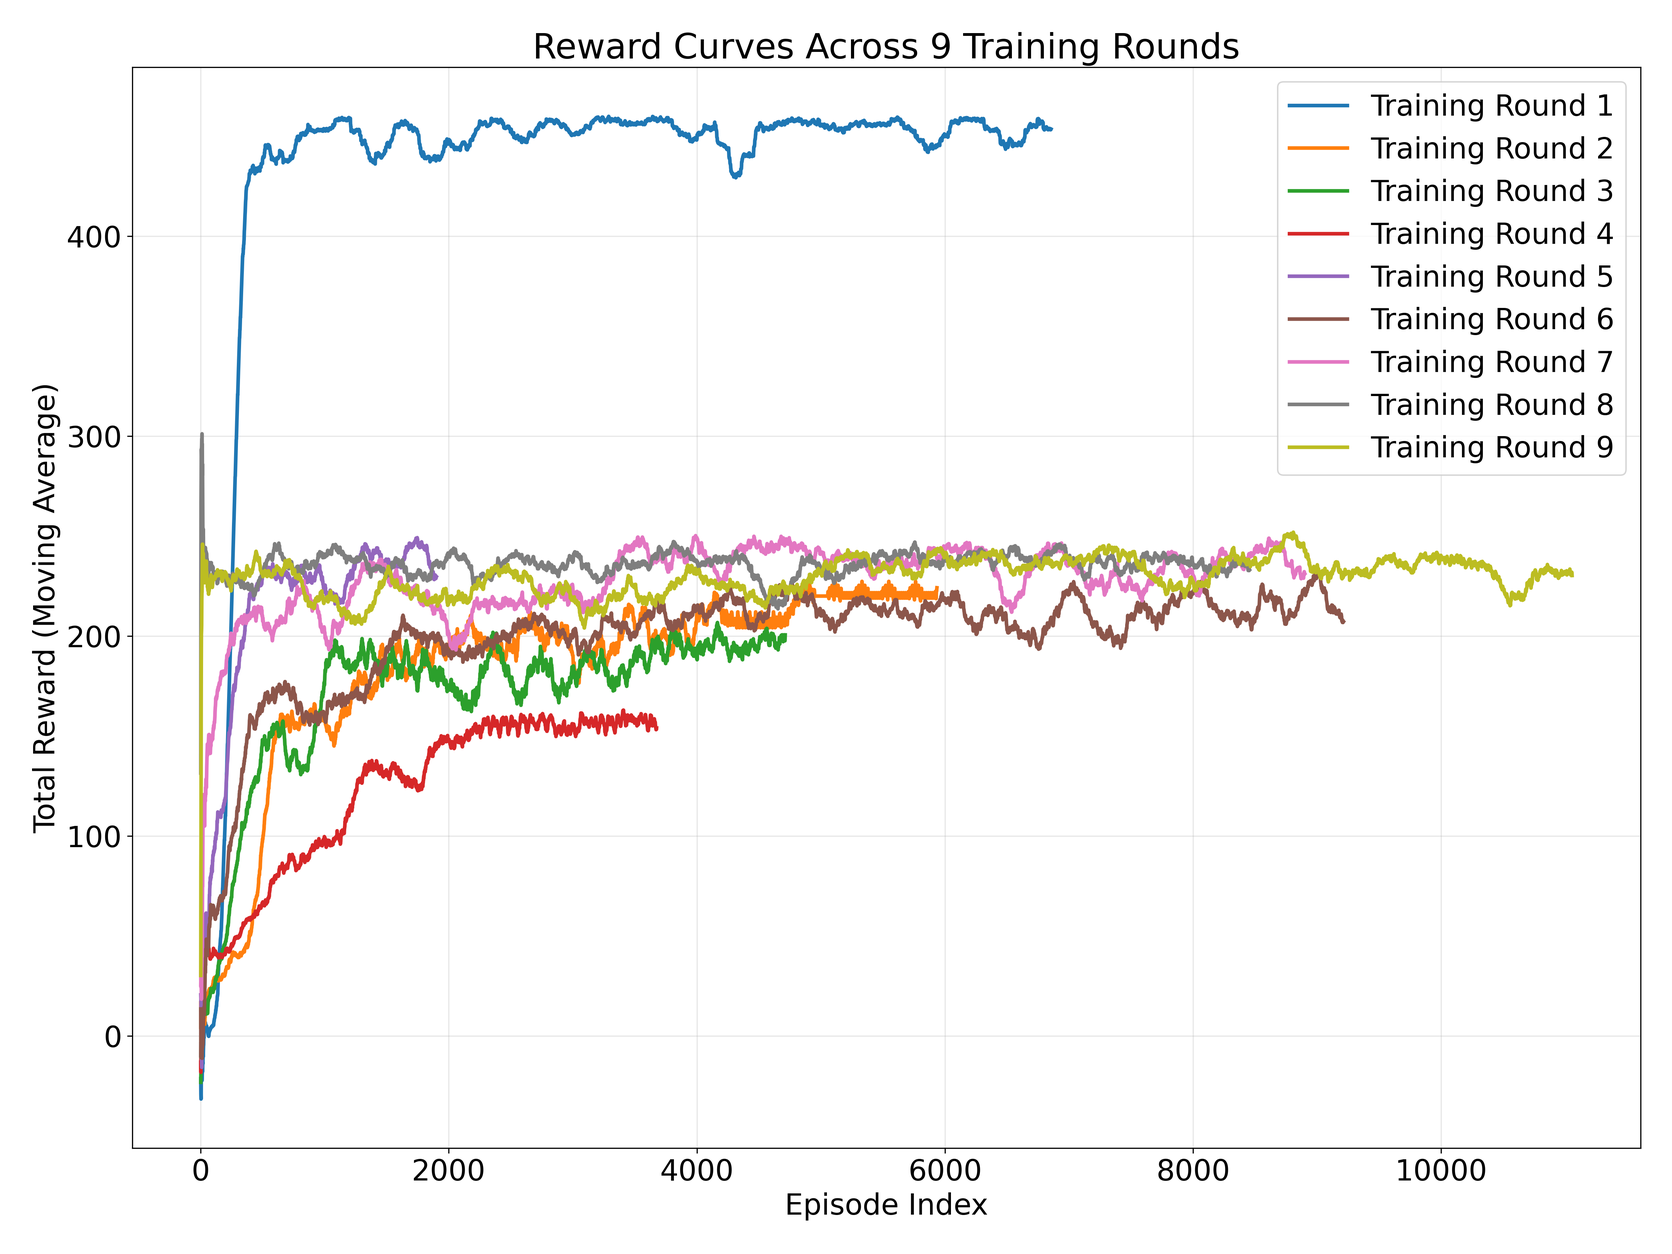
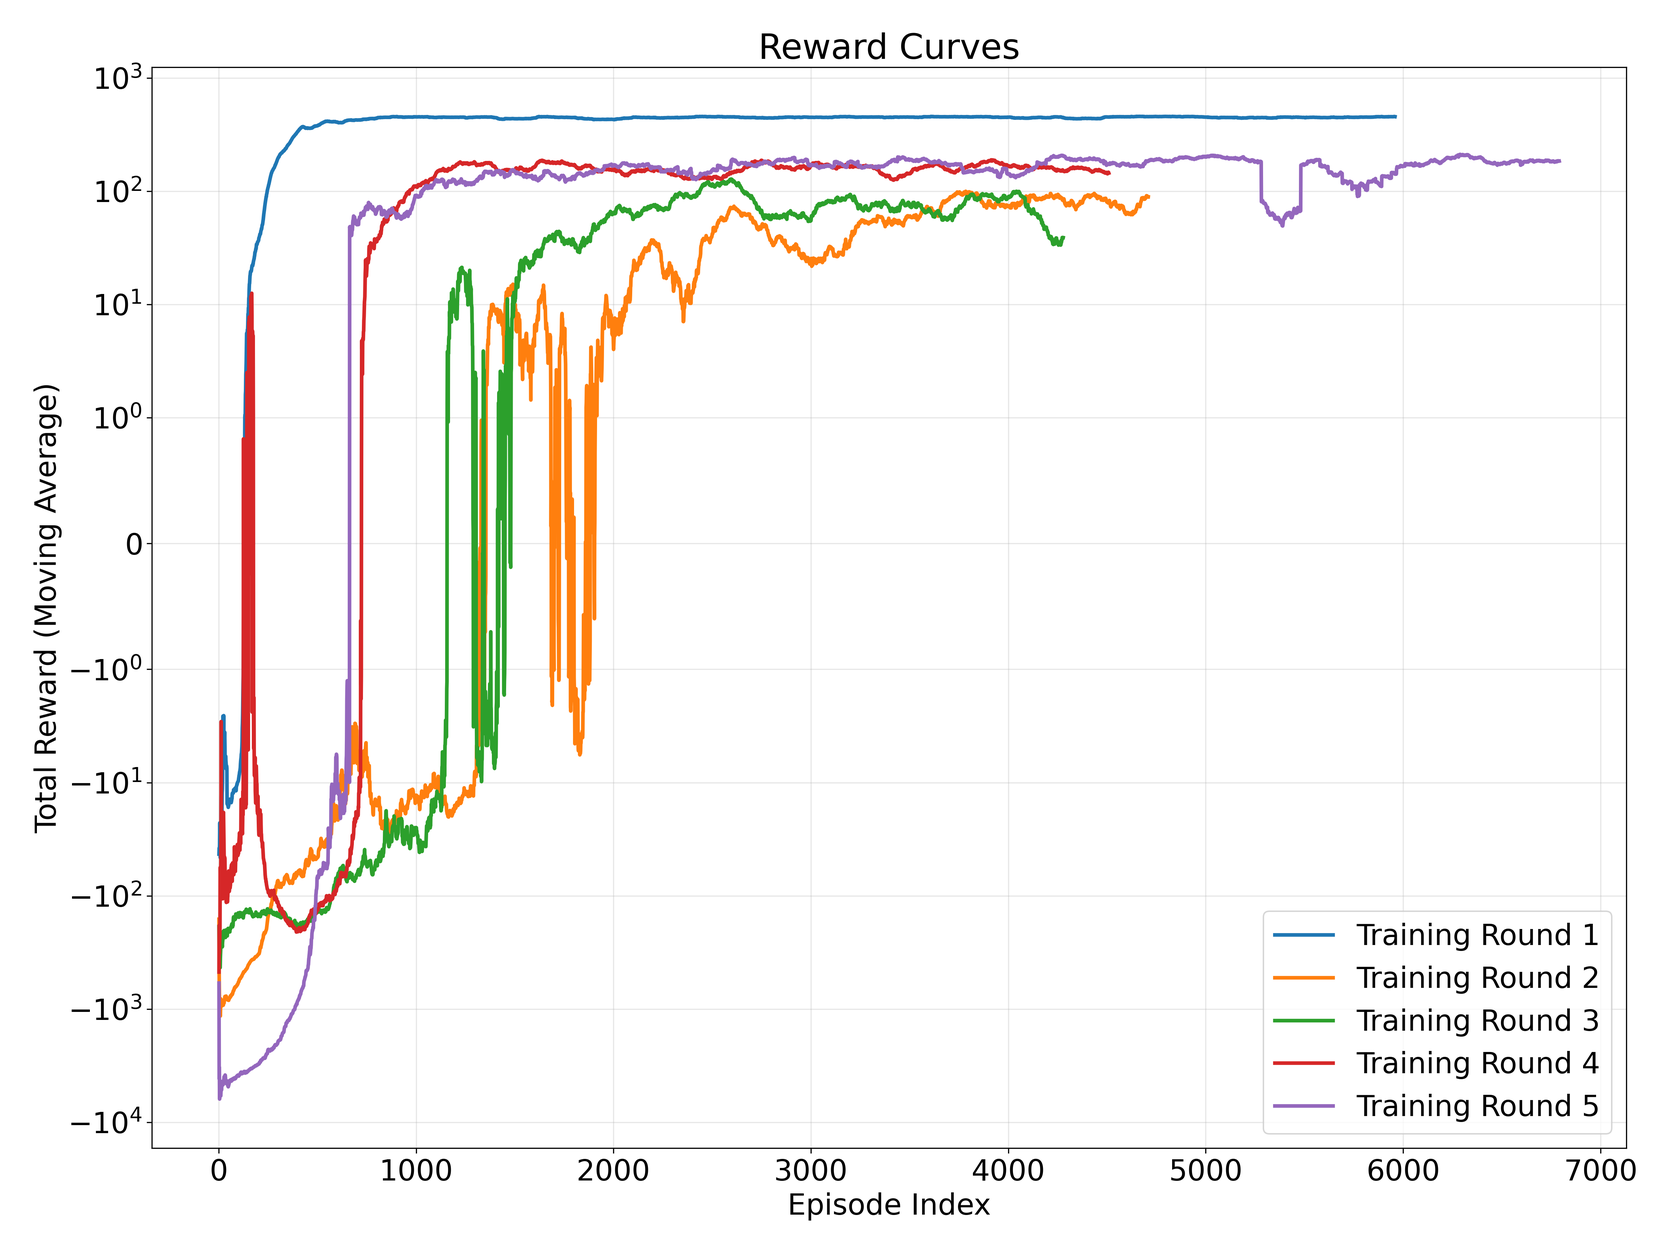
change paper

diff --git a/paper/main.tex b/paper/main.tex
@@ -242,12 +242,12 @@
 %%   is part of the metadata in the pdf/a file, and the metadata cannot contain
 %%   linebreaks.
 %%
-\thesistitle{Hierarchical Reinforcement Learning with Finite State Machines for Multi-Robot Collaborative Manipulation}
+\thesistitle{Learning-Based Multi-Robot Collaboration for Intelligent and Adaptive Robotic Systems}
 %\thesistitle[Title of the thesis]{Title of\\ the thesis}
 %%
 %% Either remove or leave \thesissubtitle{} empty if you don't use it
 %%
-\thesissubtitle{A possible subtitle}
+% \thesissubtitle{A possible subtitle}
 %\thesissubtitle[Subtitle of the thesis]{Subtitle of\\ the thesis}
 %\thesissubtitle{}
 
@@ -387,9 +387,7 @@ Stochastic Learning and Adaptive Control}
 %% abstract rewrite it in the abstarct environment as described below.
 %%
 \thesisabstract{%
-  1 - In a Multi-Robot collaborative scenario, adding a new robot brings additional development work.
-  2 - This work proposed a new algorithm that includes observing and learning the working pattern of the main robot and accelerating task completion with more robots manipulated by reinforcement learning models.
-  3 -  
+The increasing complexity of modern industrial environments demands robotic systems that are not only efficient but also intelligent, adaptive, and capable of collaboration. Traditional approaches in robotics, including single-agent reinforcement learning (RL) and simplified multi-agent frameworks, often struggle to operate effectively in continuous, high-dimensional, and dynamic scenarios, particularly when integrated mobility and dexterous manipulation are required. This thesis addresses these challenges by developing learning-based strategies for multi-robot collaboration in adaptive robotic systems. Specifically, two case studies are conducted within the framework of the academic project ``Conscious Agents as a Foundation for a Collaborative Factory of the Future.'' The first study introduces an observation algorithm that captures the behavior of an autonomous robot performing pick-and-place tasks and integrates this information with reinforcement learning for end-to-end motor control and decision-making. The second study investigates decentralized multi-agent collaboration between two RL-controlled robots, demonstrating the emergence of coordinated behaviors under shared objectives. Experiments in simulated continuous-control environments show that the proposed methods enable scalable, adaptive, and robust multi-robot cooperation, highlighting their potential for practical industrial applications. The results contribute to advancing intelligent, socially aware, and collaborative robotic systems, paving the way for flexible automation in future manufacturing and service domains.
 }
 
 %% You can prevent LaTeX from writing into the xmpdata file (it contains all the 
@@ -427,9 +425,7 @@ Stochastic Learning and Adaptive Control}
 %% well.
 %%
 \begin{abstractpage}[english]
-  1 - In a Multi-Robot collaborative scenario, adding a new robot brings additional development work.
-  2 - This work proposed a new algorithm that includes observing and learning the working pattern of the main robot and accelerating task completion with more robots manipulated by reinforcement learning models.
-  3 -  
+The increasing complexity of modern industrial environments demands robotic systems that are not only efficient but also intelligent, adaptive, and capable of collaboration. Traditional approaches in robotics, including single-agent reinforcement learning (RL) and simplified multi-agent frameworks, often struggle to operate effectively in continuous, high-dimensional, and dynamic scenarios, particularly when integrated mobility and dexterous manipulation are required. This thesis addresses these challenges by developing learning-based strategies for multi-robot collaboration in adaptive robotic systems. Specifically, two case studies are conducted within the framework of the academic project ``Conscious Agents as a Foundation for a Collaborative Factory of the Future.'' The first study introduces an observation algorithm that captures the behavior of an autonomous robot performing pick-and-place tasks and integrates this information with reinforcement learning for end-to-end motor control and decision-making. The second study investigates decentralized multi-agent collaboration between two RL-controlled robots, demonstrating the emergence of coordinated behaviors under shared objectives. Experiments in simulated continuous-control environments show that the proposed methods enable scalable, adaptive, and robust multi-robot cooperation, highlighting their potential for practical industrial applications. The results contribute to advancing intelligent, socially aware, and collaborative robotic systems, paving the way for flexible automation in future manufacturing and service domains.
 \end{abstractpage}
 
 %% The text in the \thesisabstract macro is stored in the macro \abstractext, so
@@ -591,8 +587,7 @@ Otaniemi, 10 October 2025\\
 %% 
 \thispagestyle{empty}
 
-The evolution from Industry 4.0 to Industry 5.0 reflects a shift from pure automation and digitalization toward human-centric, sustainable, and resilient production. While Industry 4.0 focused on interconnected machines and data-driven efficiency, Industry 5.0 highlights the integration of human creativity with intelligent, collaborative robotic systems. The transition toward Industry 5.0 emphasizes not only efficiency but also intelligence and collaboration in robotic systems. Robots are expected to work alongside both humans and other robots, performing fundamental tasks such as pick-and-place while adapting to dynamic factory environments. Simulation platforms for example MuJoCo [1] and reinforcement learning (RL) frameworks such as Stable-Baselines3 [2] have enabled rapid experimentation with low-level motor control and high-level decision-making in robotics. However, many existing approaches remain constrained to two categories: deterministic, rule-based controllers, which execute predefined instructions with high efficiency but lack adaptability in dynamic or unforeseen environments; and isolated reinforcement learning (RL) agents, which can acquire behaviors through interaction and experience, yet often operate in isolation without mechanisms for coordination or collaboration. Such approaches struggle with adaptability in unstructured environments and overlook the importance of multi-agent collaboration. Moreover, mechanisms for observing and interpreting the behaviors of rule-based robots—those operating under fixed, deterministic control—in order to support learning-based agents are still underexplored. These gaps hinder progress toward intelligent, collaborative robotic systems envisioned in Industry 5.0 [3].
-This thesis tackles these challenges by conducting two case studies within the framework of the academic project “Conscious Agents as a Foundation for a Collaborative Factory of the Future.” The first develops an observation algorithm to capture the behavior of a rule-based robot performing pick-and-place tasks, and integrates this with RL-based motor control and decision-making for a robot governed entirely by reinforcement learning. The second case study explores multi-agent collaboration between two RL-controlled robots, aiming to demonstrate how robots can cooperate with each other—and eventually with humans—under a unified control framework. Together, these studies contribute to advancing smart and collaborative robotics for Industry 5.0.The remainder of this thesis is organized as follows. Chapter 2 reviews the relevant literature on reinforcement learning in robotics, and approaches to robot observation and collaboration. Chapter 3 introduces the methodological framework, including the simulation environments, algorithms, and evaluation metrics employed. Chapter 4 presents the first case study on integrating rule-based robot observation with reinforcement learning control, while Chapter 5 reports the second case study on multi-agent collaboration between RL-controlled robots. Finally, Chapter 6 discusses the findings and concludes with directions for future research.
+The evolution from Industry 4.0 to Industry 5.0 reflects a shift from pure automation and digitalization toward human-centric, sustainable, and resilient production. While Industry 4.0 focused on interconnected machines and data-driven efficiency, Industry 5.0 highlights the integration of human creativity with intelligent, collaborative robotic systems. The transition toward Industry 5.0 emphasizes not only efficiency but also intelligence and collaboration in robotic systems. Robots are expected to work alongside both humans and other robots, performing fundamental tasks such as pick-and-place while adapting to dynamic factory environments. Despite the significant advances in reinforcement learning for robotics, existing approaches often remain limited in scope. Many studies focus either on single-agent control for navigation or manipulation, or on multi-agent systems in simplified, discrete, or centrally coordinated environments. As a result, these methods frequently struggle to adapt to continuous, high-dimensional, and dynamic industrial scenarios, where multiple robots must operate collaboratively in shared workspaces. Furthermore, most research has addressed homogeneous platforms and isolated capabilities, leaving integrated systems that combine mobile bases and dexterous manipulators largely unexplored. These limitations hinder the development of decentralized, scalable, and adaptive multi-robot systems capable of robust collaboration, which is essential for realizing intelligent and flexible robotic operations in practical industrial settings. This thesis tackles these challenges by conducting two case studies within the framework of the academic project “Conscious Agents as a Foundation for a Collaborative Factory of the Future.” The first develops an observation algorithm to capture the behavior of a rule-based robot performing pick-and-place tasks, and integrates this with RL-based motor control and decision-making for a robot governed entirely by reinforcement learning. The second case study explores multi-agent collaboration between two RL-controlled robots, aiming to demonstrate how robots can cooperate with each other—and eventually with humans—under a unified control framework. Together, these studies contribute to advancing smart and collaborative robotics for Industry 5.0.The remainder of this thesis is organized as follows. Chapter 2 reviews the relevant literature on reinforcement learning in robotics, and approaches to robot observation and collaboration. Chapter 3 introduces the methodological framework, including the simulation environments, algorithms, and evaluation metrics employed. Chapter 4 presents the first case study on integrating rule-based robot observation with reinforcement learning control, while Chapter 5 reports the second case study on multi-agent collaboration between RL-controlled robots. Finally, Chapter 6 discusses the findings and concludes with directions for future research.
 
 
 % \subsection{Typical content in the introduction}
@@ -1133,7 +1128,7 @@ The initial orientation of the Secondary Robot is aligned with the positive $x$-
 
 \subparagraph{Training configuration}
 
-We employ $n=8$ parallel environments. The PPO models are trained with the following hyperparameters and configurations:
+We employ $n=8$ parallel environments. The models are trained with the following hyperparameters and configurations:
 \begin{itemize}
     \item Learning rate: $1 \times 10^{-4}$
     \item Number of steps per environment per update: $n_{\text{steps}} = 1024$
@@ -1745,7 +1740,6 @@ The testing results are summarized as follows:
 
 These results suggest that the trained policy achieves a \textbf{62\% success rate} in completing the task without collisions, and \textbf{52\% fully clean success rate} without either collisions or placement violations.
 
-Through this design, the agent learns a policy that maximizes expected cumulative rewards while respecting the underlying MDP structure. By employing PPO with an MLP policy network, our framework can handle high-dimensional state spaces, complex interactions between multiple agents, and sequential dependencies of actions and rewards, making it suitable for a wide range of robotic control tasks.
 
 \clearpage
 
@@ -1861,17 +1855,27 @@ a_{\text{i}}, & \text{otherwise}.
 Let $r_t$ denote the reward received by the agent at timestep $t$. It is composed of multiple components:  
 
 \begin{equation}
-r_t = r_{\text{step}} + r_{\text{action}} + r_{\text{potential}} + r_{\text{collision}} + r_{\text{task}}
+r_t = r_{\text{step}} + r_{\text{action}} + r_{\text{potential}} + r_{\text{task}},
+\end{equation}
+
+but with a proximity condition that overrides all other rewards when the distance between robots is less than 0.8:
+
+\begin{equation}
+r_t =
+\begin{cases}
+-30, & \text{if } d_{r} < 0.8, \\
+r_{\text{step}} + r_{\text{action}} + r_{\text{potential}} + r_{\text{task}}, & \text{otherwise}.
+\end{cases}
 \end{equation}
 
 where
 
-1. \textbf{Step penalty} (to encourage efficiency):
+\textbf{Step penalty} (to encourage efficiency):
 \begin{equation}
 r_{\text{step}} = -0.001
 \end{equation}
 
-2. \textbf{Action reward}:
+\textbf{Action reward}:
 \begin{equation}
 r_{\text{action}} =
 \begin{cases}
@@ -1880,7 +1884,7 @@ r_{\text{action}} =
 \end{cases}
 \end{equation}
 
-3. \textbf{Potential field reward} (encouraging progress toward target and avoiding the other robot):  
+\textbf{Potential field reward} (encouraging progress toward target and avoiding the other robot):  
 
 Let $\mathbf{p}_t$ be the agent robot's current position, $\mathbf{p}_{\text{target}}$ the target position, and $\mathbf{p}_{\text{other}}$ the other robot's position. Define attractive and repulsive potentials:
 
@@ -1902,16 +1906,7 @@ r_{\text{potential}} = U_{\text{prev}} - (U_{\text{attr}} + U_{\text{rep}}),
 
 where $U_{\text{prev}}$ is the potential at the previous timestep (encouraging the agent to reduce potential).
 
-4. \textbf{Collision penalties}:
-\begin{equation}
-r_{\text{collision}} = 
-\begin{cases}
--10, & \text{if collision with robot or forbidden area occurs}, \\
-0, & \text{otherwise}.
-\end{cases}
-\end{equation}
-
-5. \textbf{Task completion reward}:
+\textbf{Task completion reward}:
 \begin{equation}
 r_{\text{task}} = 
 \begin{cases}
@@ -1924,17 +1919,17 @@ An episode terminates when any of the following conditions occur:
 
 \begin{itemize}
     \item \textbf{Collision termination:}  
-    The episode ends immediately if the agent robot collides with the other robot or any forbidden area.
+    The episode ends immediately if the agent robot collides with Walls, Placing Plate, and Picking Tables.
 
     \item \textbf{Task completion:}  
     The episode ends if the task is completed (all of the objects are removed from the plates).
 
     \item \textbf{Maximum steps:}  
-    The episode ends if the step limit of 8000 is reached.
+    The episode ends if the step limit of 6000 is reached.
 \end{itemize}
 
 \paragraph{Training environment}  
-The training environment is initialized with Robot~2 (white) placed at position $(-2, -1)$ m and Robot~3 (purple) at position $(-2, 1)$ m, as shown in Figure~\ref{fig:case_2_training_env}.  
+The training environment is initialized with R2 (white) placed at position $(-2, -1)$ m and R3 (purple) at position $(-2, 1)$ m, as shown in Figure~\ref{fig:case_2_training_env}.  
 
 \begin{figure}[H]
 \centering
@@ -1942,15 +1937,15 @@ The training environment is initialized with Robot~2 (white) placed at position 
 \caption{\label{fig:case_2_training_env}Initial positions of Robot~2 and Robot~3.}
 \end{figure}
 
-We adopt a multi-round alternating training scheme over 9 rounds to obtain a single policy capable of independently controlling both robots while avoiding inter-robot and walls collisions.
+We adopt a multi-round alternating training scheme over 5 rounds to obtain a single policy capable of independently controlling both robots while avoiding inter-robot and walls collisions.
 
 In the first training round, one robot is randomly assigned to the agent for training, while the other robot remains stationary. This yields the initial policy $\pi_1$.  
 
-For subsequent rounds, we employ an alternating training procedure. Specifically, in round $k$ ($2 \le k \le 9$), the agent trains one robot based on the policy $\pi_{k-1}$, while the other robot is controlled by the previously learned policy $\pi_{k-1}$. The resulting policy after round $k$ is denoted as $\pi_k$.
+For subsequent rounds, we employ an alternating training procedure. Specifically, in round $k$ ($2 \le k \le 5$), the agent trains one robot based on the policy $\pi_{k-1}$, while the other robot is controlled by the previously learned policy $\pi_{k-1}$. The resulting policy after round $k$ is denoted as $\pi_k$.
 
-This process is repeated until the ninth round, producing the final policy $\pi_9$.
+This process is repeated until the fifth round, producing the final policy $\pi_5$.
 
-Each training round is conducted using a parallel environment setup with $N=14$ independent instances. The agent is trained with the Proximal Policy Optimization (PPO) algorithm using a multi-layer perceptron (MLP) policy. The hyperparameters are set as follows:
+Each training round is conducted using a parallel environment setup with $N=14$ independent instances. The hyperparameters are set as follows:
 
 \begin{itemize}
     \item Learning rate: $1 \times 10^{-3}$
@@ -1968,16 +1963,15 @@ Each training round is conducted using a parallel environment setup with $N=14$ 
 
 The training results are presented in two parts.  
 
-\textbf{Reward curves.} The first part consists of the reward curves obtained over the nine rounds of alternating training. These curves illustrate the progression of learning and convergence of the policy over successive training rounds, as shown in Figure~\ref{fig:reward_curves_9rounds}.  
+\textbf{Reward curves.} The first part consists of the reward curves obtained over the five rounds of alternating training, with a moving window size of 200 episodes, as shown in Figure~\ref{fig:reward_curves_9rounds}.  
 
 \begin{figure}[H]
 \centering
 \includegraphics[width=0.9\linewidth]{reward_curves_9rounds.png}
-\caption{\label{fig:reward_curves_9rounds}Reward curves of 9 rounds}
+\caption{\label{fig:reward_curves_9rounds}Reward curves of 5 rounds}
 \end{figure}
 
-\textbf{Evaluation metrics.} The second part focuses on evaluating the performance of the trained policies. In the testing phase, both robots are controlled independently by the latest policy obtained from each training round. For each policy, we conduct 100 evaluation episodes to ensure statistical reliability, and the deterministic policy
-set to False. We define six evaluation metrics:
+\textbf{Evaluation metrics.} The second part focuses on evaluating the performance of the trained policies. In the testing phase, both robots are controlled independently by the latest policy obtained from each training round.For each policy, we conduct 100 evaluation episodes to ensure statistical reliability, with the deterministic policy set to \texttt{False}. Considering that collisions between robots should be strictly prohibited under real-world conditions, the evaluation setting differs from the training environment: once a collision occurs, the current episode is immediately terminated and marked as a failure. We define six evaluation metrics:
 
 
 \begin{enumerate}
@@ -1988,7 +1982,7 @@ set to False. We define six evaluation metrics:
     \begin{figure}[H]
     \centering
     \includegraphics[width=0.9\linewidth]{progress_completion_per_policy.png}
-    \caption{\label{fig:progress_completion_per_policy}Average progress and task completion rate of 9 policies}
+    \caption{\label{fig:progress_completion_per_policy}Average progress and task completion rate of 5 policies}
     \end{figure}
 
     \item \textbf{Timesteps per placed object.} This metric evaluates the efficiency of object placement under multi-agent control by quantifying the average number of simulation steps required to successfully place a single object. It is formally defined as
@@ -2011,15 +2005,15 @@ set to False. We define six evaluation metrics:
     \begin{figure}[H]
     \centering
     \includegraphics[width=0.9\linewidth]{ind_progress_completion_per_policy.png}
-    \caption{\label{fig:ind_progress_completion_per_policy}Independent-agent average progress and task completion rate of 9 policies.}
+    \caption{\label{fig:ind_progress_completion_per_policy}Independent-agent average progress and task completion rate of 5 policies.}
     \end{figure}
     
-    \item \textbf{Independent-agent timesteps per placed object.} Using the same independent-agent tests, this metric measures the efficiency of object placement, as shown in Figure~\ref{fig:independent_agent_timesteps_per_object}. 
+    \item \textbf{Independent-agent timesteps per placed object.} Using the same independent-agent tests, this metric measures the efficiency of object placement, as shown in Figure~\ref{fig:ind_timesteps_per_object}. 
 
     \begin{figure}[H]
     \centering
-    \includegraphics[width=0.9\linewidth]{independent_agent_timesteps_per_object.png}
-    \caption{\label{fig:independent_agent_timesteps_per_object}Independent-agent Curve of Timesteps per placed object.}
+    \includegraphics[width=0.9\linewidth]{ind_timesteps_per_object.png}
+    \caption{\label{fig:ind_timesteps_per_object}Independent-agent Curve of Timesteps per placed object.}
     \end{figure}
 
 
